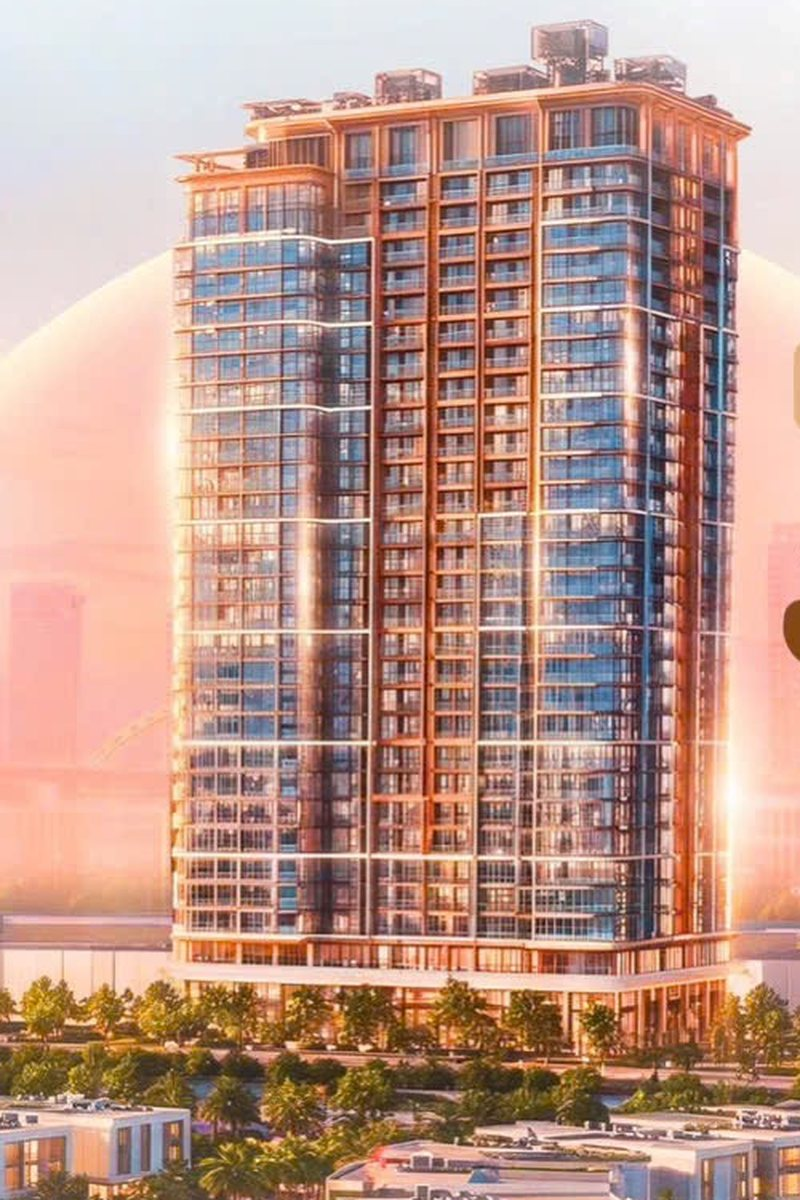
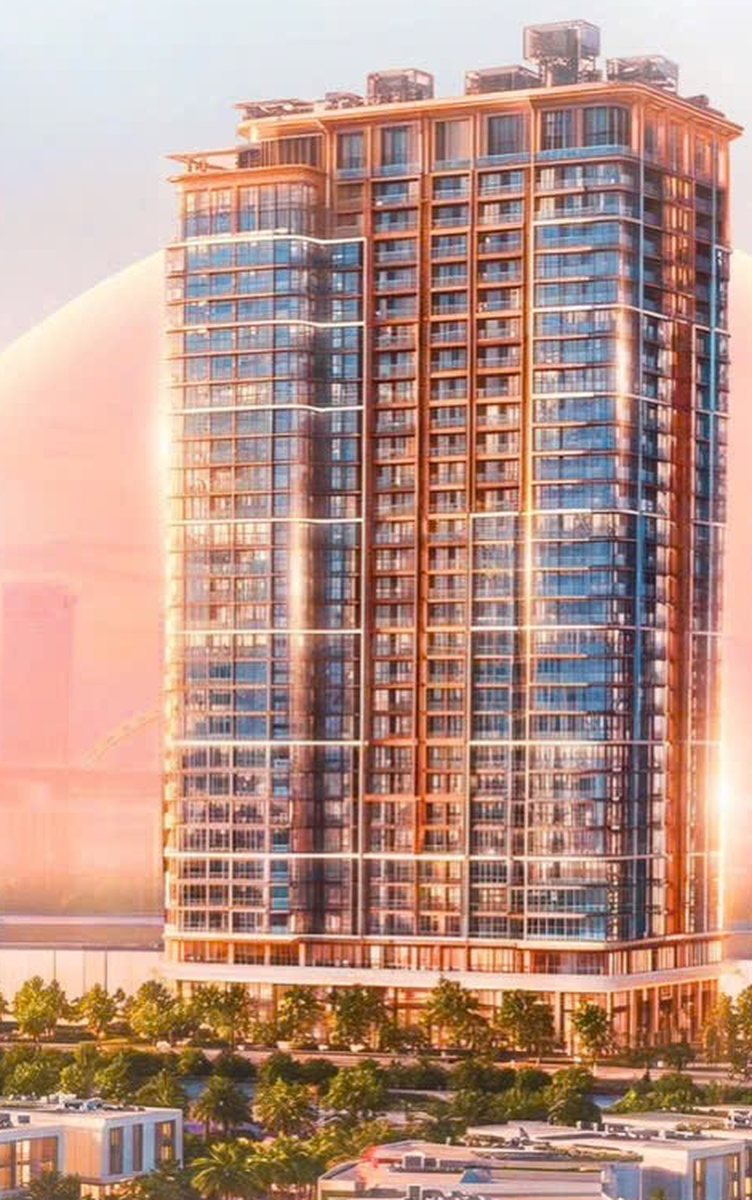
Add tower photo to overview and tidy floating contact buttons
Claude-Session: https://claude.ai/code/session_01JnXgpEsLsnsKkqQxKUTmih

diff --git a/landing/sun-saphia/index.html b/landing/sun-saphia/index.html
@@ -76,11 +76,14 @@ section{padding:80px 0}
 
 /* OVERVIEW */
 .ov-grid{display:flex;gap:36px;flex-wrap:wrap;margin-top:34px;align-items:stretch}
-.ov-table{flex:1 1 520px;background:#FFFFFF;border-radius:18px;padding:12px 28px;border:1px solid #CFE7EC}
+.ov-table{flex:1 1 420px;background:#FFFFFF;border-radius:18px;padding:12px 28px;border:1px solid #CFE7EC}
 .ov-row{display:flex;justify-content:space-between;gap:20px;padding:14px 0;border-bottom:1px solid #E6F1F3;font-size:17px}
 .ov-row:last-child{border-bottom:none}
 .ov-row span{flex:none;color:#557080}
 .ov-row b{color:#0B3C5D;text-align:right}
+.ov-img{flex:1 1 300px;position:relative;border-radius:18px;overflow:hidden;min-height:420px;box-shadow:0 18px 40px rgba(11,60,93,.18)}
+.ov-img img{position:absolute;inset:0;width:100%;height:100%;object-fit:cover;object-position:center 30%}
+.ov-cap{position:absolute;left:14px;bottom:14px;background:rgba(11,60,93,.85);color:#FFFFFF;font-size:13px;font-weight:600;padding:6px 12px;border-radius:999px}
 .ov-side{flex:1 1 360px;background:#0B3C5D;color:#E8F5F7;border-radius:18px;padding:32px;display:flex;flex-direction:column;gap:16px}
 .ov-side h3{font-size:24px;color:#FFC98B}
 .ov-side p{font-size:17px}
@@ -246,6 +249,7 @@ footer{background:#0B1E3F;color:#C9D6E3;padding:56px 0 110px;font-size:15px}
 .ft-note{font-size:13px;color:#8FA3B8;line-height:1.7}
 /* STICKY BAR */
 .sticky{position:fixed;left:0;right:0;bottom:0;z-index:50;display:flex;gap:8px;padding:10px;background:rgba(8,44,68,.96)}
+.sticky .lb{font-style:normal}
 .sticky a{flex:1;text-align:center;font-weight:700;font-size:15px;padding:13px 6px;border-radius:12px;text-decoration:none;color:#FFFFFF}
 .s-call{background:#0F7C8F}
 .s-zalo{background:#1590A6}
@@ -256,6 +260,7 @@ footer{background:#0B1E3F;color:#C9D6E3;padding:56px 0 110px;font-size:15px}
 .sticky a{flex:none;width:62px;height:62px;padding:0;border-radius:50%;display:flex;align-items:center;justify-content:center;font-size:0;border:3px solid #FFFFFF;box-shadow:0 10px 24px rgba(4,24,42,.35);transition:.3s}
 .sticky a:hover{transform:scale(1.08)}
 .sticky a span{font-size:24px}
+.sticky .lb{display:none}
 .sticky .s-form{background:#0B1E3F}
 .sticky .s-call{background:#E8833A}
 .sticky .s-zalo{background:#0B1E3F}
@@ -282,6 +287,7 @@ footer{background:#0B1E3F;color:#C9D6E3;padding:56px 0 110px;font-size:15px}
   .bcol b{font-size:15px}
   .kpi b{font-size:30px}
   .infra-grid{grid-template-columns:1fr 1fr}
+  .ov-img{flex:1 1 100%;min-height:480px}
   .ft-grid{grid-template-columns:1fr;gap:28px}
   .months{grid-template-columns:repeat(6,1fr)}
   .form-card{flex:1 1 100%}
@@ -375,6 +381,7 @@ footer{background:#0B1E3F;color:#C9D6E3;padding:56px 0 110px;font-size:15px}
     <p class="eyebrow">Tổng quan</p>
     <h2>Sun Saphia Residence trong một bảng</h2>
     <div class="ov-grid">
+      <div class="ov-img"><img src="https://raw.githubusercontent.com/hiephoangmt-debug/hoang-hiep-crm/01a3e5914a12b3247adb721eb7f3fddfa770ee54/landing/sun-saphia/thap.jpg" alt="Phối cảnh toà tháp Sun Saphia Residence 30 tầng bên trục biển" width="800" height="1200"><span class="ov-cap">Phối cảnh minh hoạ · 30 tầng · ~114 m</span></div>
       <div class="ov-table">
         <div class="ov-row"><span>Tên dự án</span><b>Sun Saphia Residence</b></div>
         <div class="ov-row"><span>Chủ đầu tư</span><b>Sun Group</b></div>
@@ -822,8 +829,8 @@ footer{background:#0B1E3F;color:#C9D6E3;padding:56px 0 110px;font-size:15px}
 
 <!-- STICKY BAR -->
 <div class="sticky">
-  <a class="s-form" href="#dang-ky-cuoi" aria-label="Nhận bảng giá"><span>💬</span> Nhận giá</a>
-  <a class="s-call" href="tel:0904567009" aria-label="Gọi 0904 567 009"><span>📞</span> Gọi ngay</a>
+  <a class="s-form" href="#dang-ky-cuoi" aria-label="Nhận bảng giá"><span>💬</span><i class="lb"> Nhận giá</i></a>
+  <a class="s-call" href="tel:0904567009" aria-label="Gọi 0904 567 009"><span>📞</span><i class="lb"> Gọi ngay</i></a>
   <a class="s-zalo" href="https://zalo.me/0904567009" aria-label="Zalo 0904 567 009"><span>Zalo</span></a>
 </div>
 
